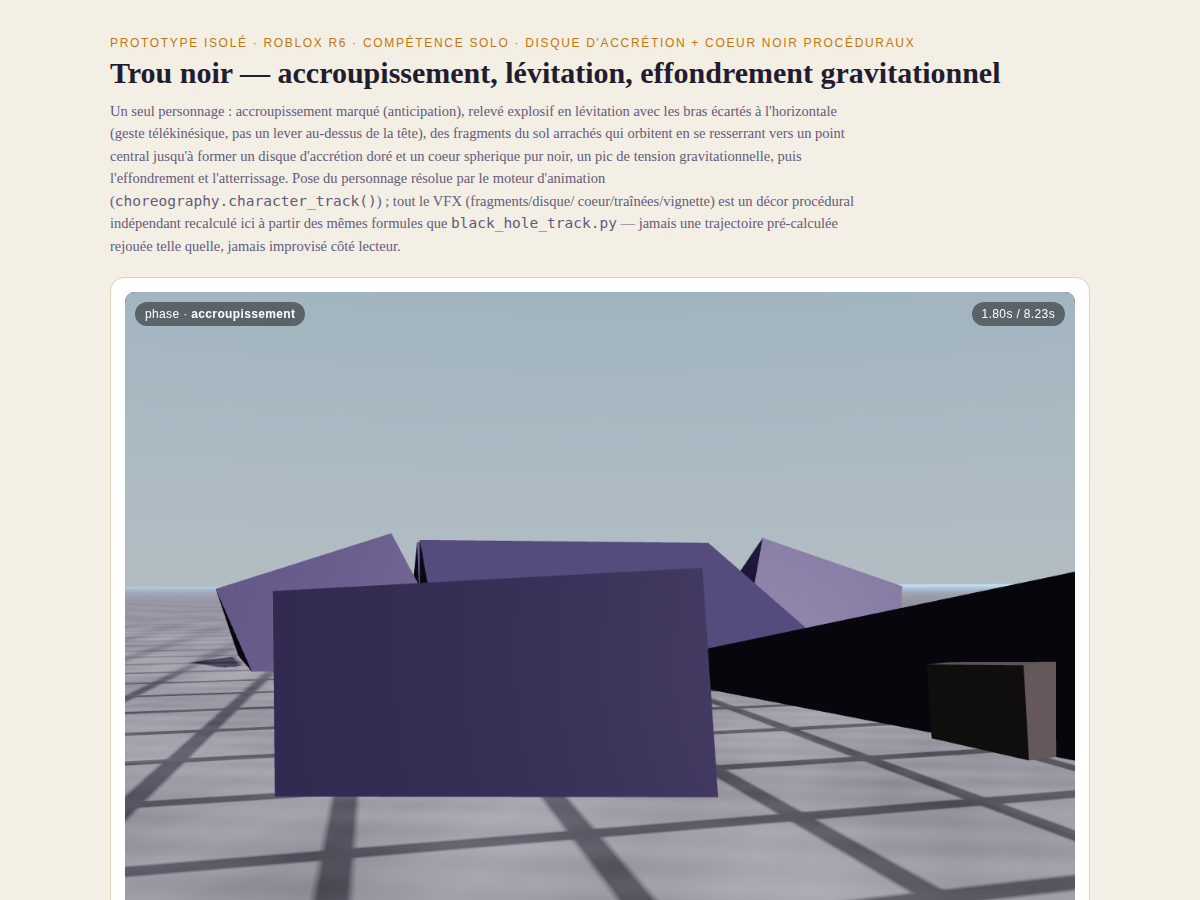
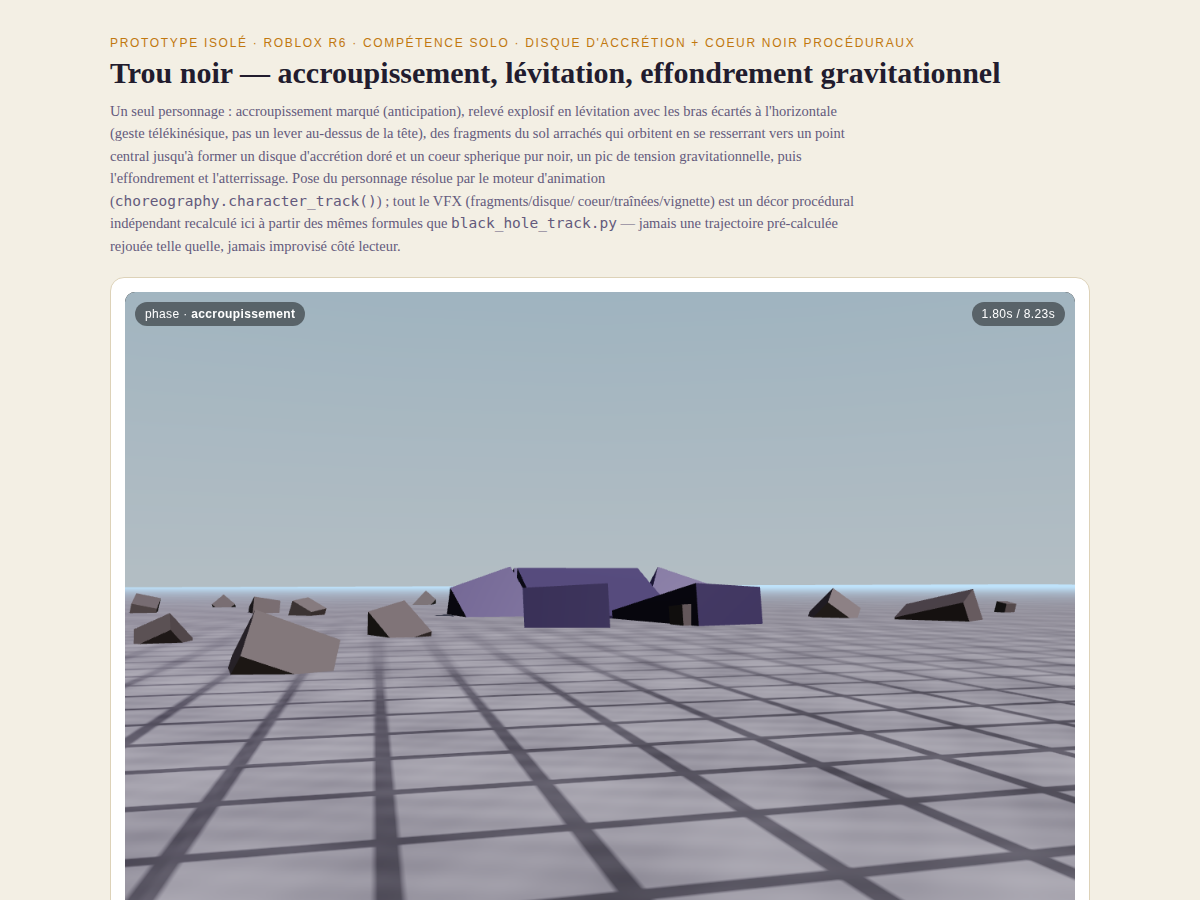
r6_black_hole: corriger le cadrage camera casse sur les plans serres (crouch/liftoff/hold)
Retour direct: "la qualite de ton animation n'est pas bonne". Relecture
directe des captures existantes (jamais supposee) a montre que le crouch
etait totalement illisible (plans triangulaires plein cadre, aucune
silhouette reconnaissable) et que liftoff/hold-debris tronquaient tete et
pieds -- pas un probleme de pose, un probleme de camera qui rendait les
poses impossibles a juger.

Root cause mesuree via l'AABB monde reelle du personnage (pas estimee a
l'oeil): le crouch exagere (round precedent) penche le torse au point que
la tete est a z=+1.41 pendant que les jambes restent a z=-2.01, soit 3.4
studs de profondeur le long de l'axe camera. Un dist=5.0 choisi sur la
seule hauteur d'un personnage debout place la camera a ~2.8 studs de la
jambe la plus proche -- distorsion perspective severe, pas juste un
cadrage trop serre. La cible (pivot du Torso) aggravait le probleme.

Corrige: charAABB(pt)/charFitDist(pt, frac) calculent distance et cible
depuis l'AABB reelle de la pose a chaque instant (sphere englobante,
valable quel que soit l'azimut) au lieu de distances choisies a l'oeil.
Applique aux cles camera centrees sur le personnage; les cles centrees
sur le disque (climax/collapse) restent inchangees. calibrate.py revalide
(aucun changement de choregraphie/trajectoires, camera seulement).

Claude-Session: https://claude.ai/code/session_01T2RfbbKEcpoKFsMcBKEbPV

Changed region(s): [[0.0925, 0.5911, 0.8942, 1.0]]

diff --git a/experiments/r6_black_hole/output/black_hole_viewer_final.html b/experiments/r6_black_hole/output/black_hole_viewer_final.html
@@ -686,6 +686,53 @@ function cameraDir(az, el) {
 function smoothstep(e0, e1, x) { const t = Math.max(0, Math.min(1, (x - e0) / ((e1 - e0) || 1e-6))); return t * t * (3 - 2 * t); }
 function lerp(a, b, f) { return a + (b - a) * f; }
 
+// -- AABB monde du personnage a un instant donne (tous les parts, coins
+// des 8 sommets de chaque boite transformes par sa pose reelle -- PAS une
+// estimation a l'oeil de la "hauteur du personnage"). Necessaire car
+// retour direct ("qualite de l'animation pas bonne") a mene a re-verifier
+// les gros plans (crouch/hold) et a trouver qu'ils etaient illisibles :
+// la pose de crouch (exagérée au round precedent, voir README) penche le
+// torse tellement vers l'avant que la tete finit a z=+1.4 pendant que les
+// jambes restent a z=-2.0 -- 3.4 studs de PROFONDEUR le long de l'axe
+// camera, jamais pris en compte par un dist choisi sur la seule "hauteur"
+// (~5 studs) du personnage debout. A dist=5.0 (l'ancienne valeur), la
+// jambe la plus proche de la camera se retrouve a ~2.8 studs d'elle :
+// deformation perspective severe (jambe enorme, tete minuscule au loin),
+// pas juste un cadrage trop serre -- confirme par capture (voir README).
+function charAABB(pt) {
+  const pose = sampleChar(DATA.character_frames, pt);
+  const mins = [Infinity, Infinity, Infinity], maxs = [-Infinity, -Infinity, -Infinity];
+  for (const part of DATA.part_order) {
+    if (part === "HumanoidRootPart") continue;
+    const size = DATA.part_sizes[part];
+    const p = pose[part].p, r = pose[part].r;
+    const hx = size[0] / 2, hy = size[1] / 2, hz = size[2] / 2;
+    for (const sx of [-1, 1]) for (const sy of [-1, 1]) for (const sz of [-1, 1]) {
+      const lx = sx * hx, ly = sy * hy, lz = sz * hz;
+      const wx = p[0] + r[0] * lx + r[1] * ly + r[2] * lz;
+      const wy = p[1] + r[3] * lx + r[4] * ly + r[5] * lz;
+      const wz = p[2] + r[6] * lx + r[7] * ly + r[8] * lz;
+      mins[0] = Math.min(mins[0], wx); maxs[0] = Math.max(maxs[0], wx);
+      mins[1] = Math.min(mins[1], wy); maxs[1] = Math.max(maxs[1], wy);
+      mins[2] = Math.min(mins[2], wz); maxs[2] = Math.max(maxs[2], wz);
+    }
+  }
+  return { min: mins, max: maxs, center: [(mins[0] + maxs[0]) / 2, (mins[1] + maxs[1]) / 2, (mins[2] + maxs[2]) / 2] };
+}
+// dist necessaire pour que la SPHERE ENGLOBANTE de l'AABB (rayon = demi-
+// diagonale -- englobe donc la boite quel que soit l'azimut de camera,
+// jamais suppose alignee sur X ou Z) tienne dans `frac` du cadre vertical
+// (l'angle vertical est toujours le plus serrant ici, aspect 1200/900 >
+// 1 donc le FOV horizontal est plus large). Plancher a 3.0 (jamais plus
+// pres qu'un vrai gros plan pour eviter tout retour a la distorsion).
+const _halfVFov = (FOV_BASE * Math.PI / 180) / 2;
+function charFitDist(pt, frac) {
+  const box = charAABB(pt);
+  const ex = box.max[0] - box.min[0], ey = box.max[1] - box.min[1], ez = box.max[2] - box.min[2];
+  const R = 0.5 * Math.hypot(ex, ey, ez);
+  return Math.max(3.0, R / (frac * Math.tan(_halfVFov)));
+}
+
 const MID_HOLD_T = KT.rise_t + (KT.hold_end_t - KT.rise_t) * 0.5;
 // -- distances RECALCULEES par la formule d'angle (pas choisies a l'oeil
 // -- piege trouve en verifiant : les valeurs d'origine (3.2-7.0) etaient
@@ -698,6 +745,12 @@ const MID_HOLD_T = KT.rise_t + (KT.hold_end_t - KT.rise_t) * 0.5;
 // README) : sans ca, le climax/collapse.t0 (disque a 9.2 studs de
 // diametre) rendait un disque QUI DEBORDAIT DU CADRE (juste un rond noir
 // plein ecran, aucun anneau visible) a l'ancienne distance de 3.2-5.0.
+// -- Les cles CENTREES SUR LE PERSONNAGE (tw bas) utilisent maintenant
+// charFitDist(t, frac) -- calcule depuis l'AABB REELLE de la pose a cet
+// instant, jamais un dist choisi a l'oeil qui casse des qu'une pose
+// change (voir note charAABB ci-dessus). Seules climax/collapse (tw
+// haut, cadrage sur le DISQUE) gardent un dist choisi a la main sur le
+// diametre du disque -- pas concernees par ce bug.
 // -- SENS de la camera corrige suite a un retour explicite ("le sens de
 // camera... pas bon") : la version precedente changeait de direction
 // DEUX fois sans raison de mise en scene -- (1) l'azimut repartait de
@@ -737,17 +790,17 @@ const MID_HOLD_T = KT.rise_t + (KT.hold_end_t - KT.rise_t) * 0.5;
 // version precedente (meme balayage continu, meme sens, juste vu de
 // l'autre cote).
 const CAM_KEYS = [
-  { t: 0.0,              az: 165, el: 12, dist: 9.5,  tw: 0.0  },
+  { t: 0.0,              az: 165, el: 12, dist: charFitDist(0.0, 0.55),              tw: 0.0  },
   // -- plan d'etablissement VRAIMENT tenu (retour explicite : "manque de
   // frame d'un debut") : cle supplementaire aux memes valeurs qu'a t=0,
   // juste avant le crouch -- sans elle la camera glissait deja (el/dist)
   // des la premiere frame, aucun instant reellement figE pour poser la
   // scene avant que l'action commence.
-  { t: KT.t0_end,        az: 165, el: 12, dist: 9.5,  tw: 0.0  },
-  { t: KT.crouch_t,      az: 165, el: 5,  dist: 5.0,  tw: 0.0  },
-  { t: KT.crouch_hold_t, az: 165, el: 5,  dist: 5.0,  tw: 0.0  },
-  { t: KT.rise_t,        az: 174, el: 15, dist: 8.5,  tw: 0.1  },
-  { t: MID_HOLD_T,       az: 192, el: 21, dist: 11.0, tw: 0.5  },
+  { t: KT.t0_end,        az: 165, el: 12, dist: charFitDist(KT.t0_end, 0.55),        tw: 0.0  },
+  { t: KT.crouch_t,      az: 165, el: 5,  dist: charFitDist(KT.crouch_t, 0.68),      tw: 0.0  },
+  { t: KT.crouch_hold_t, az: 165, el: 5,  dist: charFitDist(KT.crouch_hold_t, 0.68), tw: 0.0  },
+  { t: KT.rise_t,        az: 174, el: 15, dist: charFitDist(KT.rise_t, 0.62),        tw: 0.1  },
+  { t: MID_HOLD_T,       az: 192, el: 21, dist: charFitDist(MID_HOLD_T, 0.58),       tw: 0.5  },
   { t: KT.hold_end_t,    az: 204, el: 23, dist: 8.5,  tw: 0.75 },
   { t: KT.climax_t,      az: 220, el: 25, dist: 12.5, tw: 1.0  },
   // -- garder tw HAUT tout du long de la fenetre d'effondrement
@@ -764,8 +817,8 @@ const CAM_KEYS = [
   // decollage.
   { t: VFX.collapse.t0,  az: 224, el: 19, dist: 12.5, tw: 0.92 },
   { t: VFX.collapse.t1,  az: 228, el: 15, dist: 8.5,  tw: 0.35 },
-  { t: KT.recover_t,     az: 232, el: 12, dist: 9.5,  tw: 0.0  },
-  { t: KT.idle_out_end,  az: 232, el: 12, dist: 9.5,  tw: 0.0  },
+  { t: KT.recover_t,     az: 232, el: 12, dist: charFitDist(KT.recover_t, 0.55),     tw: 0.0  },
+  { t: KT.idle_out_end,  az: 232, el: 12, dist: charFitDist(KT.idle_out_end, 0.55),  tw: 0.0  },
 ];
 function camKeyAt(pt) {
   if (pt <= CAM_KEYS[0].t) return CAM_KEYS[0];
@@ -778,7 +831,11 @@ function camKeyAt(pt) {
   }
   return CAM_KEYS[CAM_KEYS.length - 1];
 }
-function charAnchor(pose) { const p = pose["Torso"].p; return [p[0], p[1] + 0.15, p[2]]; }
+// -- cible camera = centre de l'AABB reelle (pas le seul pivot du Torso,
+// voir note charAABB ci-dessus) : a un crouch fortement penche, le pivot
+// du Torso peut etre excentre par rapport au VRAI centre visuel du corps
+// (tete+jambes comprises), ce qui decale le cadrage meme a bonne distance.
+function charAnchor(pt) { return charAABB(pt).center; }
 
 // Coup de camera au climax -- PAS un hitstop (aucun coup ici, seulement
 // un pic de puissance gravitationnelle) : kick de FOV bref + secousse a
@@ -799,7 +856,7 @@ function updateCamera(pt, pose) {
   const k = camKeyAt(pt);
   const az = k.az * Math.PI / 180, el = k.el * Math.PI / 180;
   const dir = cameraDir(az, el);
-  const target = [0, 0, 0].map((_, i) => lerp(charAnchor(pose)[i], CENTER[i], k.tw));
+  const target = [0, 0, 0].map((_, i) => lerp(charAnchor(pt)[i], CENTER[i], k.tw));
   const kick = climaxKick(pt);
   camera.position.set(target[0] + dir.x * k.dist + kick.x, target[1] + dir.y * k.dist + kick.y, target[2] + dir.z * k.dist + kick.z);
   _camTargetV.set(target[0], target[1], target[2]);

diff --git a/experiments/r6_black_hole/scripts/black_hole_viewer.html b/experiments/r6_black_hole/scripts/black_hole_viewer.html
@@ -680,6 +680,53 @@ function cameraDir(az, el) {
 function smoothstep(e0, e1, x) { const t = Math.max(0, Math.min(1, (x - e0) / ((e1 - e0) || 1e-6))); return t * t * (3 - 2 * t); }
 function lerp(a, b, f) { return a + (b - a) * f; }
 
+// -- AABB monde du personnage a un instant donne (tous les parts, coins
+// des 8 sommets de chaque boite transformes par sa pose reelle -- PAS une
+// estimation a l'oeil de la "hauteur du personnage"). Necessaire car
+// retour direct ("qualite de l'animation pas bonne") a mene a re-verifier
+// les gros plans (crouch/hold) et a trouver qu'ils etaient illisibles :
+// la pose de crouch (exagérée au round precedent, voir README) penche le
+// torse tellement vers l'avant que la tete finit a z=+1.4 pendant que les
+// jambes restent a z=-2.0 -- 3.4 studs de PROFONDEUR le long de l'axe
+// camera, jamais pris en compte par un dist choisi sur la seule "hauteur"
+// (~5 studs) du personnage debout. A dist=5.0 (l'ancienne valeur), la
+// jambe la plus proche de la camera se retrouve a ~2.8 studs d'elle :
+// deformation perspective severe (jambe enorme, tete minuscule au loin),
+// pas juste un cadrage trop serre -- confirme par capture (voir README).
+function charAABB(pt) {
+  const pose = sampleChar(DATA.character_frames, pt);
+  const mins = [Infinity, Infinity, Infinity], maxs = [-Infinity, -Infinity, -Infinity];
+  for (const part of DATA.part_order) {
+    if (part === "HumanoidRootPart") continue;
+    const size = DATA.part_sizes[part];
+    const p = pose[part].p, r = pose[part].r;
+    const hx = size[0] / 2, hy = size[1] / 2, hz = size[2] / 2;
+    for (const sx of [-1, 1]) for (const sy of [-1, 1]) for (const sz of [-1, 1]) {
+      const lx = sx * hx, ly = sy * hy, lz = sz * hz;
+      const wx = p[0] + r[0] * lx + r[1] * ly + r[2] * lz;
+      const wy = p[1] + r[3] * lx + r[4] * ly + r[5] * lz;
+      const wz = p[2] + r[6] * lx + r[7] * ly + r[8] * lz;
+      mins[0] = Math.min(mins[0], wx); maxs[0] = Math.max(maxs[0], wx);
+      mins[1] = Math.min(mins[1], wy); maxs[1] = Math.max(maxs[1], wy);
+      mins[2] = Math.min(mins[2], wz); maxs[2] = Math.max(maxs[2], wz);
+    }
+  }
+  return { min: mins, max: maxs, center: [(mins[0] + maxs[0]) / 2, (mins[1] + maxs[1]) / 2, (mins[2] + maxs[2]) / 2] };
+}
+// dist necessaire pour que la SPHERE ENGLOBANTE de l'AABB (rayon = demi-
+// diagonale -- englobe donc la boite quel que soit l'azimut de camera,
+// jamais suppose alignee sur X ou Z) tienne dans `frac` du cadre vertical
+// (l'angle vertical est toujours le plus serrant ici, aspect 1200/900 >
+// 1 donc le FOV horizontal est plus large). Plancher a 3.0 (jamais plus
+// pres qu'un vrai gros plan pour eviter tout retour a la distorsion).
+const _halfVFov = (FOV_BASE * Math.PI / 180) / 2;
+function charFitDist(pt, frac) {
+  const box = charAABB(pt);
+  const ex = box.max[0] - box.min[0], ey = box.max[1] - box.min[1], ez = box.max[2] - box.min[2];
+  const R = 0.5 * Math.hypot(ex, ey, ez);
+  return Math.max(3.0, R / (frac * Math.tan(_halfVFov)));
+}
+
 const MID_HOLD_T = KT.rise_t + (KT.hold_end_t - KT.rise_t) * 0.5;
 // -- distances RECALCULEES par la formule d'angle (pas choisies a l'oeil
 // -- piege trouve en verifiant : les valeurs d'origine (3.2-7.0) etaient
@@ -692,6 +739,12 @@ const MID_HOLD_T = KT.rise_t + (KT.hold_end_t - KT.rise_t) * 0.5;
 // README) : sans ca, le climax/collapse.t0 (disque a 9.2 studs de
 // diametre) rendait un disque QUI DEBORDAIT DU CADRE (juste un rond noir
 // plein ecran, aucun anneau visible) a l'ancienne distance de 3.2-5.0.
+// -- Les cles CENTREES SUR LE PERSONNAGE (tw bas) utilisent maintenant
+// charFitDist(t, frac) -- calcule depuis l'AABB REELLE de la pose a cet
+// instant, jamais un dist choisi a l'oeil qui casse des qu'une pose
+// change (voir note charAABB ci-dessus). Seules climax/collapse (tw
+// haut, cadrage sur le DISQUE) gardent un dist choisi a la main sur le
+// diametre du disque -- pas concernees par ce bug.
 // -- SENS de la camera corrige suite a un retour explicite ("le sens de
 // camera... pas bon") : la version precedente changeait de direction
 // DEUX fois sans raison de mise en scene -- (1) l'azimut repartait de
@@ -731,17 +784,17 @@ const MID_HOLD_T = KT.rise_t + (KT.hold_end_t - KT.rise_t) * 0.5;
 // version precedente (meme balayage continu, meme sens, juste vu de
 // l'autre cote).
 const CAM_KEYS = [
-  { t: 0.0,              az: 165, el: 12, dist: 9.5,  tw: 0.0  },
+  { t: 0.0,              az: 165, el: 12, dist: charFitDist(0.0, 0.55),              tw: 0.0  },
   // -- plan d'etablissement VRAIMENT tenu (retour explicite : "manque de
   // frame d'un debut") : cle supplementaire aux memes valeurs qu'a t=0,
   // juste avant le crouch -- sans elle la camera glissait deja (el/dist)
   // des la premiere frame, aucun instant reellement figE pour poser la
   // scene avant que l'action commence.
-  { t: KT.t0_end,        az: 165, el: 12, dist: 9.5,  tw: 0.0  },
-  { t: KT.crouch_t,      az: 165, el: 5,  dist: 5.0,  tw: 0.0  },
-  { t: KT.crouch_hold_t, az: 165, el: 5,  dist: 5.0,  tw: 0.0  },
-  { t: KT.rise_t,        az: 174, el: 15, dist: 8.5,  tw: 0.1  },
-  { t: MID_HOLD_T,       az: 192, el: 21, dist: 11.0, tw: 0.5  },
+  { t: KT.t0_end,        az: 165, el: 12, dist: charFitDist(KT.t0_end, 0.55),        tw: 0.0  },
+  { t: KT.crouch_t,      az: 165, el: 5,  dist: charFitDist(KT.crouch_t, 0.68),      tw: 0.0  },
+  { t: KT.crouch_hold_t, az: 165, el: 5,  dist: charFitDist(KT.crouch_hold_t, 0.68), tw: 0.0  },
+  { t: KT.rise_t,        az: 174, el: 15, dist: charFitDist(KT.rise_t, 0.62),        tw: 0.1  },
+  { t: MID_HOLD_T,       az: 192, el: 21, dist: charFitDist(MID_HOLD_T, 0.58),       tw: 0.5  },
   { t: KT.hold_end_t,    az: 204, el: 23, dist: 8.5,  tw: 0.75 },
   { t: KT.climax_t,      az: 220, el: 25, dist: 12.5, tw: 1.0  },
   // -- garder tw HAUT tout du long de la fenetre d'effondrement
@@ -758,8 +811,8 @@ const CAM_KEYS = [
   // decollage.
   { t: VFX.collapse.t0,  az: 224, el: 19, dist: 12.5, tw: 0.92 },
   { t: VFX.collapse.t1,  az: 228, el: 15, dist: 8.5,  tw: 0.35 },
-  { t: KT.recover_t,     az: 232, el: 12, dist: 9.5,  tw: 0.0  },
-  { t: KT.idle_out_end,  az: 232, el: 12, dist: 9.5,  tw: 0.0  },
+  { t: KT.recover_t,     az: 232, el: 12, dist: charFitDist(KT.recover_t, 0.55),     tw: 0.0  },
+  { t: KT.idle_out_end,  az: 232, el: 12, dist: charFitDist(KT.idle_out_end, 0.55),  tw: 0.0  },
 ];
 function camKeyAt(pt) {
   if (pt <= CAM_KEYS[0].t) return CAM_KEYS[0];
@@ -772,7 +825,11 @@ function camKeyAt(pt) {
   }
   return CAM_KEYS[CAM_KEYS.length - 1];
 }
-function charAnchor(pose) { const p = pose["Torso"].p; return [p[0], p[1] + 0.15, p[2]]; }
+// -- cible camera = centre de l'AABB reelle (pas le seul pivot du Torso,
+// voir note charAABB ci-dessus) : a un crouch fortement penche, le pivot
+// du Torso peut etre excentre par rapport au VRAI centre visuel du corps
+// (tete+jambes comprises), ce qui decale le cadrage meme a bonne distance.
+function charAnchor(pt) { return charAABB(pt).center; }
 
 // Coup de camera au climax -- PAS un hitstop (aucun coup ici, seulement
 // un pic de puissance gravitationnelle) : kick de FOV bref + secousse a
@@ -793,7 +850,7 @@ function updateCamera(pt, pose) {
   const k = camKeyAt(pt);
   const az = k.az * Math.PI / 180, el = k.el * Math.PI / 180;
   const dir = cameraDir(az, el);
-  const target = [0, 0, 0].map((_, i) => lerp(charAnchor(pose)[i], CENTER[i], k.tw));
+  const target = [0, 0, 0].map((_, i) => lerp(charAnchor(pt)[i], CENTER[i], k.tw));
   const kick = climaxKick(pt);
   camera.position.set(target[0] + dir.x * k.dist + kick.x, target[1] + dir.y * k.dist + kick.y, target[2] + dir.z * k.dist + kick.z);
   _camTargetV.set(target[0], target[1], target[2]);

diff --git a/experiments/r6_black_hole/README.md b/experiments/r6_black_hole/README.md
@@ -422,6 +422,78 @@ testé, captures visuelles conformes.
 dédiée du flash, décalant les shots suivants de un cran) ; `calibrate.py`
 non concerné (aucun changement de chorégraphie/trajectoires ce round).
 
+### Suite : retour direct — « la qualité de ton animation n'est pas bonne » (2026-09-23)
+
+Consigne : creuser plus loin, spécifiquement sur la qualité de
+l'ANIMATION (pas le VFX/ciel déjà traité au round précédent). Relecture
+directe (jamais supposée) des captures `01-crouch`/`02-liftoff`/
+`03-hold-debris` existantes : **illisibles**. `01-crouch` ne montrait
+aucune silhouette humanoïde reconnaissable — juste de grands plans
+triangulaires violets/noirs remplissant l'écran bord à bord. `02-liftoff`
+et `03-hold-debris` cadraient si serré que la tête et les pieds sortaient
+du cadre, ne laissant voir qu'un torse tronqué. Le problème n'était donc
+pas la qualité des poses elles-mêmes mais le fait qu'elles étaient
+rendues **impossibles à juger** — ce qui explique le retour, même après
+plusieurs rounds de travail sur l'exagération des poses (#129).
+
+Root cause identifiée par mesure directe (AABB monde réelle du personnage
+à `crouch_hold_t`, calculée depuis `DATA.character_frames`, pas estimée à
+l'œil) :
+
+```
+Torso.p = [0, -0.0865, 0]   Head.p = [0, 0.0845, 1.41]   Left/Right Leg.p = [±0.78, -0.20, -2.01]
+AABB : extent = [4.23, 2.42, 5.24] studs  (X, Y, Z)
+```
+
+Le crouch exagéré (#129) penche le torse tellement vers l'avant que la
+tête se retrouve à z=+1.41 pendant que les jambes restent à z=-2.01 — une
+profondeur de 3.4 studs le long de l'axe caméra, jamais prise en compte
+par un `dist` choisi sur la seule hauteur (~5 studs) d'un personnage
+debout. Requête Playwright directe à `crouch_hold_t` : caméra à
+`(1.29, 0.50, -4.81)`, cible à `(0, 0.06, 0)` — la jambe la plus proche se
+retrouve à ~2.8 studs de la caméra (distorsion perspective sévère : jambe
+énorme, tête minuscule au loin), pas juste un cadrage trop serré. La
+cible elle-même (`charAnchor` = `Torso.p + [0,0.15,0]`, un pivot
+d'articulation, pas le centre visuel réel du corps) aggravait le
+problème.
+
+Corrigé dans `black_hole_viewer.html` — remplacement des `dist`
+choisis à l'œil par un calcul géométrique à partir de l'AABB réelle :
+
+1. `charAABB(pt)` — AABB monde de TOUS les parts (8 coins de chaque
+   boîte, transformés par la pose réelle à cet instant), pas une
+   supposition sur la hauteur du personnage debout.
+2. `charFitDist(pt, frac)` — distance nécessaire pour que la sphère
+   englobante de cette AABB (rayon = demi-diagonale, donc valable quel
+   que soit l'azimut de caméra) tienne dans `frac` du cadre vertical
+   (angle le plus serrant, aspect 1200/900 > 1).
+3. `charAnchor(pt)` — remplacé : centre de l'AABB réelle au lieu du pivot
+   du Torso (qui pouvait être excentré par rapport au corps entier à un
+   crouch fortement penché).
+4. `CAM_KEYS` : les clés centrées sur le personnage (`t=0`, `t0_end`,
+   `crouch_t`, `crouch_hold_t`, `rise_t`, `MID_HOLD_T`, `recover_t`,
+   `idle_out_end`) utilisent maintenant `charFitDist(t, frac)` — chaque
+   `frac` choisi pour préserver l'intention de mise en scène (0.55 pour
+   les plans d'établissement/repos, 0.68 pour le crouch dramatique bas,
+   0.62/0.58 pour décollage/lévitation). Les clés centrées sur le DISQUE
+   (`hold_end_t`, `climax_t`, `collapse.*`, tw≥0.75) gardent leur `dist`
+   choisi à la main sur le diamètre du disque — non concernées par ce
+   bug, non touchées.
+
+Résultat, revérifié directement (jamais supposé) : `01-crouch` montre
+maintenant une silhouette accroupie lisible en contre-plongée ;
+`02-liftoff` montre le corps entier (tête, bras qui s'écartent, jambes,
+pieds au sol avec ombre) ; `03-hold-debris` montre le corps entier sous
+les débris en orbite. `00-garde` légèrement reculé (toujours cadré
+entièrement) ; `06-climax`, `09-recover` revérifiés, inchangés/corrects.
+Aucune régression : `calibrate.py` revalidé (aucun changement de
+chorégraphie/trajectoires ce round, uniquement la caméra) — durée totale
+8.233s, aucune anomalie de placement au sol, aucun clipping en
+lévitation, VFX OK.
+
+10 captures existantes (00, 02, 03, 06, 09 changées visuellement ; 01
+transformée de illisible à lisible) recapturées et revues une par une.
+
 ## Vérification (captures)
 
 11 captures committées dans `captures/verification/`, toutes vérifiées
